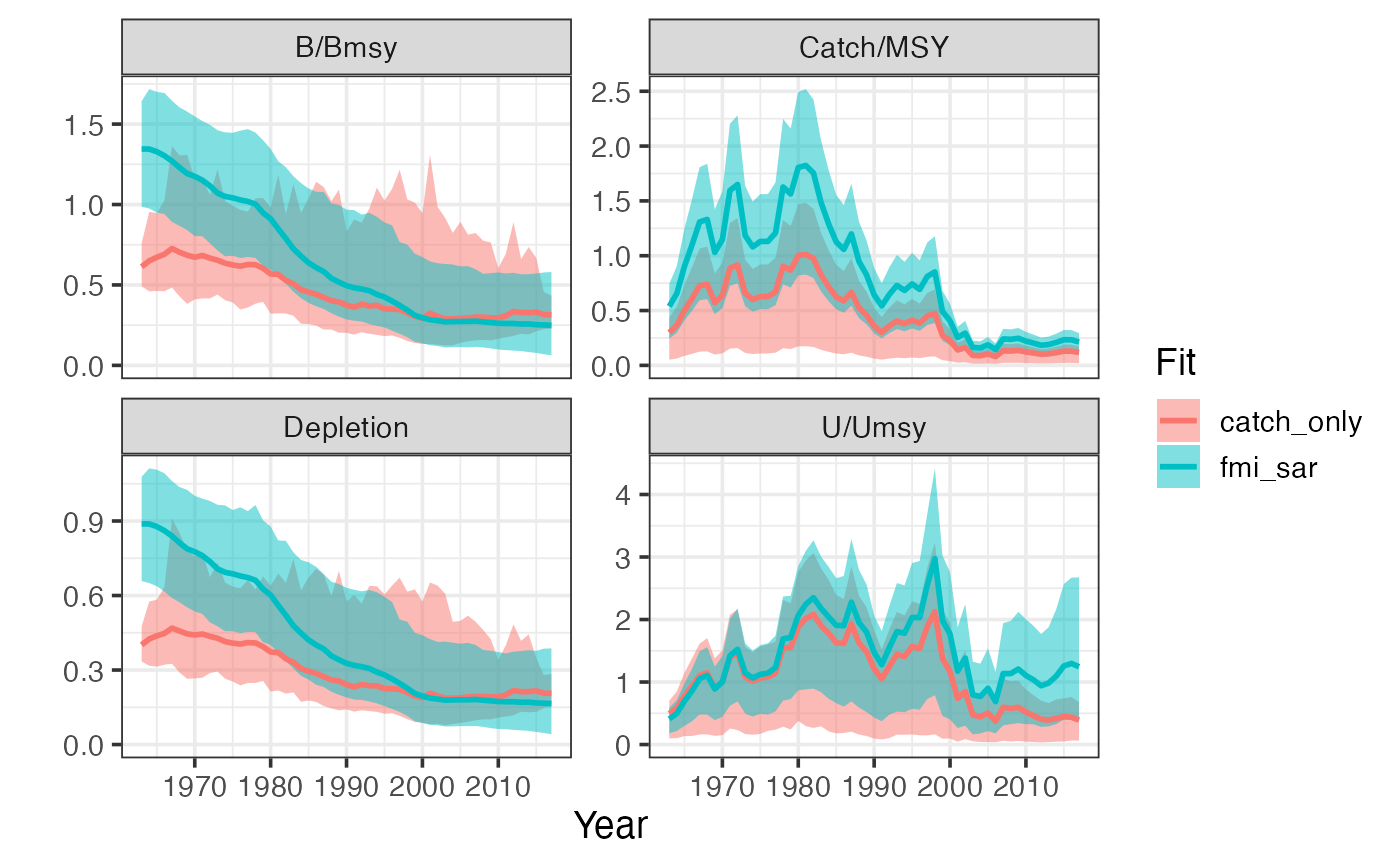
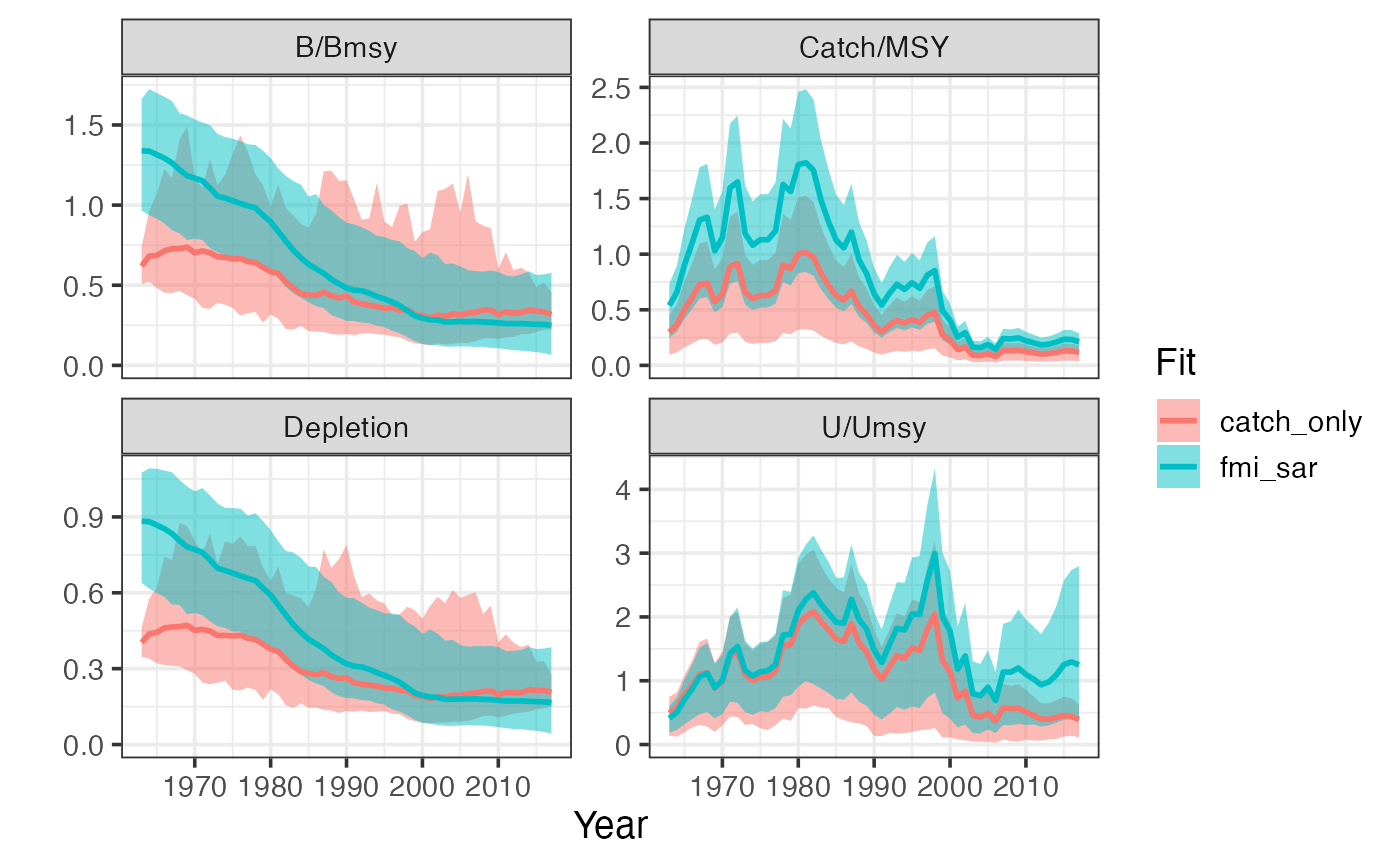
updating websites etc

diff --git a/docs/articles/sraplus.html b/docs/articles/sraplus.html
@@ -65,7 +65,14 @@
   <a href="../news/index.html">Changelog</a>
 </li>
       </ul>
-<ul class="nav navbar-nav navbar-right"></ul>
+<ul class="nav navbar-nav navbar-right">
+<li>
+  <a href="https://github.com/DanOvando/sraplus/">
+    <span class="fab fa-github fa-lg"></span>
+     
+  </a>
+</li>
+      </ul>
 </div>
 <!--/.nav-collapse -->
   </div>
@@ -81,7 +88,7 @@
       <h1 data-toc-skip>Surplus Production Modeling and Estimation with sraplus</h1>
             
       
-      
+      <small class="dont-index">Source: <a href="https://github.com/DanOvando/sraplus/blob/master/vignettes/sraplus.Rmd"><code>vignettes/sraplus.Rmd</code></a></small>
       <div class="hidden name"><code>sraplus.Rmd</code></div>
 
     </div>
@@ -152,7 +159,7 @@
 <span class="co">#&gt; The following objects are masked from 'package:base':</span>
 <span class="co">#&gt; </span>
 <span class="co">#&gt;     intersect, setdiff, setequal, union</span>
-<span class="kw"><a href="https://rdrr.io/r/base/library.html">library</a></span><span class="op">(</span><span class="va">sraplus</span><span class="op">)</span>
+<span class="kw"><a href="https://rdrr.io/r/base/library.html">library</a></span><span class="op">(</span><span class="va"><a href="https://danovando.github.io/sraplus/">sraplus</a></span><span class="op">)</span>
 <span class="kw"><a href="https://rdrr.io/r/base/library.html">library</a></span><span class="op">(</span><span class="va">tmbstan</span><span class="op">)</span>
 <span class="co">#&gt; Loading required package: rstan</span>
 <span class="co">#&gt; Loading required package: StanHeaders</span>
@@ -238,25 +245,25 @@
 <code class="sourceCode R">
 <span class="fu"><a href="https://rdrr.io/r/utils/head.html">head</a></span><span class="op">(</span><span class="va">catch_only_fit</span><span class="op">$</span><span class="va">results</span><span class="op">)</span>
 <span class="co">#&gt; # A tibble: 6 × 6</span>
-<span class="co">#&gt;    year variable           mean            sd        lower        upper</span>
-<span class="co">#&gt;   &lt;dbl&gt; &lt;chr&gt;             &lt;dbl&gt;         &lt;dbl&gt;        &lt;dbl&gt;        &lt;dbl&gt;</span>
-<span class="co">#&gt; 1  1963 b_div_bmsy        0.613        0.0890       0.492         0.759</span>
-<span class="co">#&gt; 2  1963 b           6775481.    13677692.     2132627.     20845362.   </span>
-<span class="co">#&gt; 3  1963 c_div_msy         0.299        0.112        0.0515        0.438</span>
-<span class="co">#&gt; 4  1963 crashed           0            0            0             0    </span>
-<span class="co">#&gt; 5  1963 depletion         0.401        0.0440       0.334         0.476</span>
-<span class="co">#&gt; 6  1963 index_hat_t  404193.     1281421.       25197.       743690.</span></code></pre></div>
+<span class="co">#&gt;    year variable           mean            sd        lower       upper</span>
+<span class="co">#&gt;   &lt;dbl&gt; &lt;chr&gt;             &lt;dbl&gt;         &lt;dbl&gt;        &lt;dbl&gt;       &lt;dbl&gt;</span>
+<span class="co">#&gt; 1  1963 b_div_bmsy        0.619        0.102        0.506        0.741</span>
+<span class="co">#&gt; 2  1963 b           5344332.    11715335.     2400228.     9746081.   </span>
+<span class="co">#&gt; 3  1963 c_div_msy         0.299        0.108        0.0961       0.450</span>
+<span class="co">#&gt; 4  1963 crashed           0            0            0            0    </span>
+<span class="co">#&gt; 5  1963 depletion         0.403        0.0372       0.347        0.463</span>
+<span class="co">#&gt; 6  1963 index_hat_t  323427.     1117737.       29205.      614149.</span></code></pre></div>
 <p><code>results</code> is organized as a dataframe tracking different variables over years. <code>mean</code> is the mean value for a given variable, <code>sd</code> the estimated standard deviation around the mean, and <code>lower</code> and <code>upper</code> being the 10th and 90th percentiles of the estimates.</p>
 <p>You can access other variables from the raw <code>fit</code> object, though this is not standardized by engine and so requires knowing how to for example get outputs out of <code>stanfit</code> objects. In the <code>catch_only_fit</code>, the <code>fit</code> object is the output of the SIR algorithm.</p>
 <div class="sourceCode" id="cb10"><pre class="downlit sourceCode r">
 <code class="sourceCode R"><span class="fu"><a href="https://rdrr.io/r/utils/head.html">head</a></span><span class="op">(</span><span class="va">catch_only_fit</span><span class="op">$</span><span class="va">fit</span><span class="op">)</span>
 <span class="co">#&gt;   variable year draw   value draw_id</span>
-<span class="co">#&gt; 1      b_t 1963    1 4344896   35363</span>
-<span class="co">#&gt; 2      b_t 1964    1 3748208   35363</span>
-<span class="co">#&gt; 3      b_t 1965    1 4468920   35363</span>
-<span class="co">#&gt; 4      b_t 1966    1 4388234   35363</span>
-<span class="co">#&gt; 5      b_t 1967    1 4269797   35363</span>
-<span class="co">#&gt; 6      b_t 1968    1 3336834   35363</span></code></pre></div>
+<span class="co">#&gt; 1      b_t 1963    1 2751938   67354</span>
+<span class="co">#&gt; 2      b_t 1964    1 2860427   67354</span>
+<span class="co">#&gt; 3      b_t 1965    1 2953593   67354</span>
+<span class="co">#&gt; 4      b_t 1966    1 3044164   67354</span>
+<span class="co">#&gt; 5      b_t 1967    1 3086992   67354</span>
+<span class="co">#&gt; 6      b_t 1968    1 3085193   67354</span></code></pre></div>
 <p>From there, we can generate some standard plots of B/Bmsy (b_div_bmsy), Catch/MSY, U/Umsy, and depletion over time using <code>plot_sraplus</code>.</p>
 <div class="sourceCode" id="cb11"><pre class="downlit sourceCode r">
 <code class="sourceCode R">
@@ -321,7 +328,7 @@
 <span class="co">#&gt; [1] "fishlife matched supplied species"</span>
 <span class="co">#&gt; </span>
 <span class="co">#&gt; $distinct_sir_draws</span>
-<span class="co">#&gt; [1] 1998</span>
+<span class="co">#&gt; [1] 2064</span>
 <span class="co">#&gt; </span>
 <span class="co">#&gt; $sir_convergence_plot</span></code></pre></div>
 <p><img src="sraplus_files/figure-html/unnamed-chunk-10-1.png" width="700"></p>

diff --git a/docs/index.html b/docs/index.html
@@ -12,7 +12,7 @@
 <link rel="stylesheet" href="https://cdnjs.cloudflare.com/ajax/libs/font-awesome/5.12.1/css/v4-shims.min.css" integrity="sha256-wZjR52fzng1pJHwx4aV2AO3yyTOXrcDW7jBpJtTwVxw=" crossorigin="anonymous">
 <!-- clipboard.js --><script src="https://cdnjs.cloudflare.com/ajax/libs/clipboard.js/2.0.6/clipboard.min.js" integrity="sha256-inc5kl9MA1hkeYUt+EC3BhlIgyp/2jDIyBLS6k3UxPI=" crossorigin="anonymous"></script><!-- headroom.js --><script src="https://cdnjs.cloudflare.com/ajax/libs/headroom/0.11.0/headroom.min.js" integrity="sha256-AsUX4SJE1+yuDu5+mAVzJbuYNPHj/WroHuZ8Ir/CkE0=" crossorigin="anonymous"></script><script src="https://cdnjs.cloudflare.com/ajax/libs/headroom/0.11.0/jQuery.headroom.min.js" integrity="sha256-ZX/yNShbjqsohH1k95liqY9Gd8uOiE1S4vZc+9KQ1K4=" crossorigin="anonymous"></script><!-- pkgdown --><link href="pkgdown.css" rel="stylesheet">
 <script src="pkgdown.js"></script><meta property="og:title" content="Run sraplus Assessments">
-<meta property="og:description" content="Runs assessments in the manner of Ovando et al 2019. Allows for SIR, Maximum LIkelihood, or HMC based fitting.">
+<meta property="og:description" content="Runs assessments in the manner of Ovando et al (2021). Allows for SIR, Maximum Likelihood, or HMC based fitting.">
 <!-- mathjax --><script src="https://cdnjs.cloudflare.com/ajax/libs/mathjax/2.7.5/MathJax.js" integrity="sha256-nvJJv9wWKEm88qvoQl9ekL2J+k/RWIsaSScxxlsrv8k=" crossorigin="anonymous"></script><script src="https://cdnjs.cloudflare.com/ajax/libs/mathjax/2.7.5/config/TeX-AMS-MML_HTMLorMML.js" integrity="sha256-84DKXVJXs0/F8OTMzX4UR909+jtl4G7SPypPavF+GfA=" crossorigin="anonymous"></script><!--[if lt IE 9]>
 <script src="https://oss.maxcdn.com/html5shiv/3.7.3/html5shiv.min.js"></script>
 <script src="https://oss.maxcdn.com/respond/1.4.2/respond.min.js"></script>
@@ -65,7 +65,14 @@
   <a href="news/index.html">Changelog</a>
 </li>
       </ul>
-<ul class="nav navbar-nav navbar-right"></ul>
+<ul class="nav navbar-nav navbar-right">
+<li>
+  <a href="https://github.com/DanOvando/sraplus/">
+    <span class="fab fa-github fa-lg"></span>
+     
+  </a>
+</li>
+      </ul>
 </div>
 <!--/.nav-collapse -->
   </div>
@@ -133,7 +140,7 @@
 <code class="sourceCode R"><span class="kw"><a href="https://rdrr.io/r/base/library.html">library</a></span><span class="op">(</span><span class="va"><a href="https://ggplot2.tidyverse.org">ggplot2</a></span><span class="op">)</span>
 <span class="kw"><a href="https://rdrr.io/r/base/library.html">library</a></span><span class="op">(</span><span class="va"><a href="https://tidyr.tidyverse.org">tidyr</a></span><span class="op">)</span>
 <span class="kw"><a href="https://rdrr.io/r/base/library.html">library</a></span><span class="op">(</span><span class="va"><a href="https://dplyr.tidyverse.org">dplyr</a></span><span class="op">)</span>
-<span class="kw"><a href="https://rdrr.io/r/base/library.html">library</a></span><span class="op">(</span><span class="va">sraplus</span><span class="op">)</span>
+<span class="kw"><a href="https://rdrr.io/r/base/library.html">library</a></span><span class="op">(</span><span class="va"><a href="https://danovando.github.io/sraplus/">sraplus</a></span><span class="op">)</span>
 <span class="kw"><a href="https://rdrr.io/r/base/library.html">library</a></span><span class="op">(</span><span class="va">tmbstan</span><span class="op">)</span>
 <span class="fu"><a href="https://rdrr.io/r/base/Sys.setenv.html">Sys.unsetenv</a></span><span class="op">(</span><span class="st">"PKG_CXXFLAGS"</span><span class="op">)</span></code></pre></div>
 <p>Once you’ve successfully installed <code>sraplus</code> you can take for a test drive with these examples. We’ll now work through a couple examples, from simple to complex, of using <code>sraplus</code></p>
@@ -747,7 +754,14 @@
   </div>
 
   <div class="col-md-3 hidden-xs hidden-sm" id="pkgdown-sidebar">
-    <div class="license">
+    <div class="links">
+<h2>Links</h2>
+<ul class="list-unstyled">
+<li>Browse source code at <br><a href="https://github.com/DanOvando/sraplus/">https://github.com/DanOvando/sraplus/</a>
+</li>
+</ul>
+</div>
+<div class="license">
 <h2>License</h2>
 <ul class="list-unstyled">
 <li>

diff --git a/docs/articles/prior-tuning.html b/docs/articles/prior-tuning.html
@@ -65,7 +65,14 @@
   <a href="../news/index.html">Changelog</a>
 </li>
       </ul>
-<ul class="nav navbar-nav navbar-right"></ul>
+<ul class="nav navbar-nav navbar-right">
+<li>
+  <a href="https://github.com/DanOvando/sraplus/">
+    <span class="fab fa-github fa-lg"></span>
+     
+  </a>
+</li>
+      </ul>
 </div>
 <!--/.nav-collapse -->
   </div>
@@ -81,7 +88,7 @@
       <h1 data-toc-skip>prior-tuning</h1>
             
       
-      
+      <small class="dont-index">Source: <a href="https://github.com/DanOvando/sraplus/blob/master/vignettes/prior-tuning.Rmd"><code>vignettes/prior-tuning.Rmd</code></a></small>
       <div class="hidden name"><code>prior-tuning.Rmd</code></div>
 
     </div>
@@ -98,7 +105,7 @@
 <span class="co">#&gt; ── Conflicts ────────────────────────────────────────── tidyverse_conflicts() ──</span>
 <span class="co">#&gt; x dplyr::filter() masks stats::filter()</span>
 <span class="co">#&gt; x dplyr::lag()    masks stats::lag()</span>
-<span class="kw"><a href="https://rdrr.io/r/base/library.html">library</a></span><span class="op">(</span><span class="va">sraplus</span><span class="op">)</span>
+<span class="kw"><a href="https://rdrr.io/r/base/library.html">library</a></span><span class="op">(</span><span class="va"><a href="https://danovando.github.io/sraplus/">sraplus</a></span><span class="op">)</span>
 
 <span class="va">example_taxa</span> <span class="op">&lt;-</span> <span class="st">"gadus morhua"</span>
 

diff --git a/docs/reference/cod.html b/docs/reference/cod.html
@@ -108,7 +108,12 @@ atlantic cod (stocklong &quot;Atlantic cod IIIa (west) and IV-VIId&quot;)" />
 </li>
       </ul>
       <ul class="nav navbar-nav navbar-right">
-        
+        <li>
+  <a href="https://github.com/DanOvando/sraplus/">
+    <span class="fab fa-github fa-lg"></span>
+     
+  </a>
+</li>
       </ul>
       
     </div><!--/.nav-collapse -->
@@ -123,7 +128,7 @@ atlantic cod (stocklong &quot;Atlantic cod IIIa (west) and IV-VIId&quot;)" />
   <div class="col-md-9 contents">
     <div class="page-header">
     <h1>Sample data for atlantic cod from RAM</h1>
-    
+    <small class="dont-index">Source: <a href='https://github.com/DanOvando/sraplus/blob/master/R/cod.R'><code>R/cod.R</code></a></small>
     <div class="hidden name"><code>cod.Rd</code></div>
     </div>
 

diff --git a/docs/reference/plot_sraplus.html b/docs/reference/plot_sraplus.html
@@ -107,7 +107,12 @@
 </li>
       </ul>
       <ul class="nav navbar-nav navbar-right">
-        
+        <li>
+  <a href="https://github.com/DanOvando/sraplus/">
+    <span class="fab fa-github fa-lg"></span>
+     
+  </a>
+</li>
       </ul>
       
     </div><!--/.nav-collapse -->
@@ -122,7 +127,7 @@
   <div class="col-md-9 contents">
     <div class="page-header">
     <h1>Plot timeseries of estimates from multiple sraplus models</h1>
-    
+    <small class="dont-index">Source: <a href='https://github.com/DanOvando/sraplus/blob/master/R/plot-sraplus.R'><code>R/plot-sraplus.R</code></a></small>
     <div class="hidden name"><code>plot_sraplus.Rd</code></div>
     </div>
 

diff --git a/docs/reference/fit_sraplus.html b/docs/reference/fit_sraplus.html
@@ -108,7 +108,12 @@ model using sraplus" />
 </li>
       </ul>
       <ul class="nav navbar-nav navbar-right">
-        
+        <li>
+  <a href="https://github.com/DanOvando/sraplus/">
+    <span class="fab fa-github fa-lg"></span>
+     
+  </a>
+</li>
       </ul>
       
     </div><!--/.nav-collapse -->
@@ -123,7 +128,7 @@ model using sraplus" />
   <div class="col-md-9 contents">
     <div class="page-header">
     <h1>Run sraplus</h1>
-    
+    <small class="dont-index">Source: <a href='https://github.com/DanOvando/sraplus/blob/master/R/fit-sraplus.R'><code>R/fit-sraplus.R</code></a></small>
     <div class="hidden name"><code>fit_sraplus.Rd</code></div>
     </div>
 

diff --git a/docs/reference/diagnose_sraplus.html b/docs/reference/diagnose_sraplus.html
@@ -107,7 +107,12 @@
 </li>
       </ul>
       <ul class="nav navbar-nav navbar-right">
-        
+        <li>
+  <a href="https://github.com/DanOvando/sraplus/">
+    <span class="fab fa-github fa-lg"></span>
+     
+  </a>
+</li>
       </ul>
       
     </div><!--/.nav-collapse -->
@@ -122,7 +127,7 @@
   <div class="col-md-9 contents">
     <div class="page-header">
     <h1>Run minimal diagnostics on sraplus fits</h1>
-    
+    <small class="dont-index">Source: <a href='https://github.com/DanOvando/sraplus/blob/master/R/diagnose-sraplus.R'><code>R/diagnose-sraplus.R</code></a></small>
     <div class="hidden name"><code>diagnose_sraplus.Rd</code></div>
     </div>
 

diff --git a/docs/reference/fit_prior_regressions.html b/docs/reference/fit_prior_regressions.html
@@ -107,7 +107,12 @@
 </li>
       </ul>
       <ul class="nav navbar-nav navbar-right">
-        
+        <li>
+  <a href="https://github.com/DanOvando/sraplus/">
+    <span class="fab fa-github fa-lg"></span>
+     
+  </a>
+</li>
       </ul>
       
     </div><!--/.nav-collapse -->
@@ -122,7 +127,7 @@
   <div class="col-md-9 contents">
     <div class="page-header">
     <h1>fir-sraplus-regressions</h1>
-    
+    <small class="dont-index">Source: <a href='https://github.com/DanOvando/sraplus/blob/master/R/fit-prior-regressions.R'><code>R/fit-prior-regressions.R</code></a></small>
     <div class="hidden name"><code>fit_prior_regressions.Rd</code></div>
     </div>
 

diff --git a/docs/reference/stack_stan.html b/docs/reference/stack_stan.html
@@ -107,7 +107,12 @@
 </li>
       </ul>
       <ul class="nav navbar-nav navbar-right">
-        
+        <li>
+  <a href="https://github.com/DanOvando/sraplus/">
+    <span class="fab fa-github fa-lg"></span>
+     
+  </a>
+</li>
       </ul>
       
     </div><!--/.nav-collapse -->
@@ -122,7 +127,7 @@
   <div class="col-md-9 contents">
     <div class="page-header">
     <h1>stack reports from tmbstan fits into cohesive dataframe</h1>
-    
+    <small class="dont-index">Source: <a href='https://github.com/DanOvando/sraplus/blob/master/R/stack-stan.R'><code>R/stack-stan.R</code></a></small>
     <div class="hidden name"><code>stack_stan.Rd</code></div>
     </div>
 

diff --git a/docs/reference/get_posterior.html b/docs/reference/get_posterior.html
@@ -107,7 +107,12 @@
 </li>
       </ul>
       <ul class="nav navbar-nav navbar-right">
-        
+        <li>
+  <a href="https://github.com/DanOvando/sraplus/">
+    <span class="fab fa-github fa-lg"></span>
+     
+  </a>
+</li>
       </ul>
       
     </div><!--/.nav-collapse -->
@@ -122,7 +127,7 @@
   <div class="col-md-9 contents">
     <div class="page-header">
     <h1>get posterior draws from tmbstan fit object</h1>
-    
+    <small class="dont-index">Source: <a href='https://github.com/DanOvando/sraplus/blob/master/R/get-posterior.R'><code>R/get-posterior.R</code></a></small>
     <div class="hidden name"><code>get_posterior.Rd</code></div>
     </div>
 

diff --git a/docs/reference/summarize_sralpus.html b/docs/reference/summarize_sralpus.html
@@ -107,7 +107,12 @@
 </li>
       </ul>
       <ul class="nav navbar-nav navbar-right">
-        
+        <li>
+  <a href="https://github.com/DanOvando/sraplus/">
+    <span class="fab fa-github fa-lg"></span>
+     
+  </a>
+</li>
       </ul>
       
     </div><!--/.nav-collapse -->
@@ -122,7 +127,7 @@
   <div class="col-md-9 contents">
     <div class="page-header">
     <h1>provide summary of sraplus fit</h1>
-    
+    <small class="dont-index">Source: <a href='https://github.com/DanOvando/sraplus/blob/master/R/summarize-sraplus.R'><code>R/summarize-sraplus.R</code></a></small>
     <div class="hidden name"><code>summarize_sralpus.Rd</code></div>
     </div>
 

diff --git a/docs/reference/plot_prior_posterior.html b/docs/reference/plot_prior_posterior.html
@@ -107,7 +107,12 @@
 </li>
       </ul>
       <ul class="nav navbar-nav navbar-right">
-        
+        <li>
+  <a href="https://github.com/DanOvando/sraplus/">
+    <span class="fab fa-github fa-lg"></span>
+     
+  </a>
+</li>
       </ul>
       
     </div><!--/.nav-collapse -->
@@ -122,7 +127,7 @@
   <div class="col-md-9 contents">
     <div class="page-header">
     <h1>plot_prior_posterior</h1>
-    
+    <small class="dont-index">Source: <a href='https://github.com/DanOvando/sraplus/blob/master/R/plot-prior-posterior.R'><code>R/plot-prior-posterior.R</code></a></small>
     <div class="hidden name"><code>plot_prior_posterior.Rd</code></div>
     </div>
 
